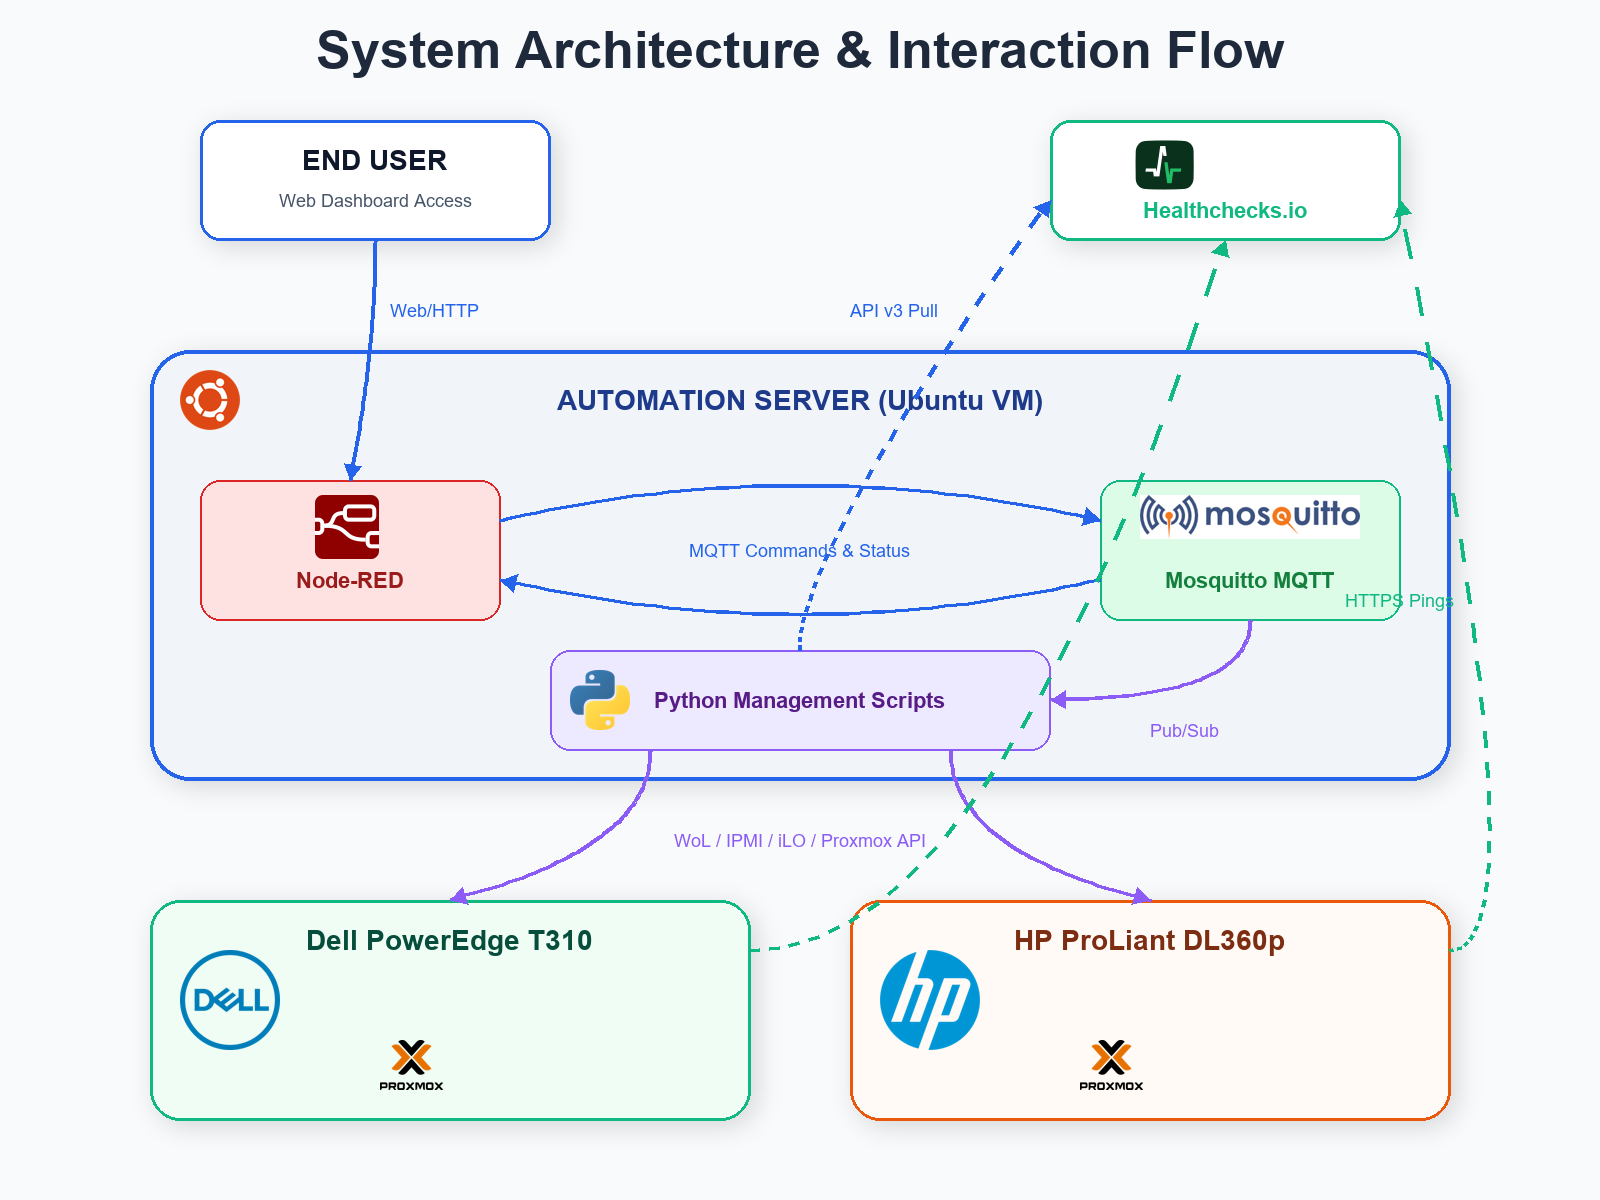
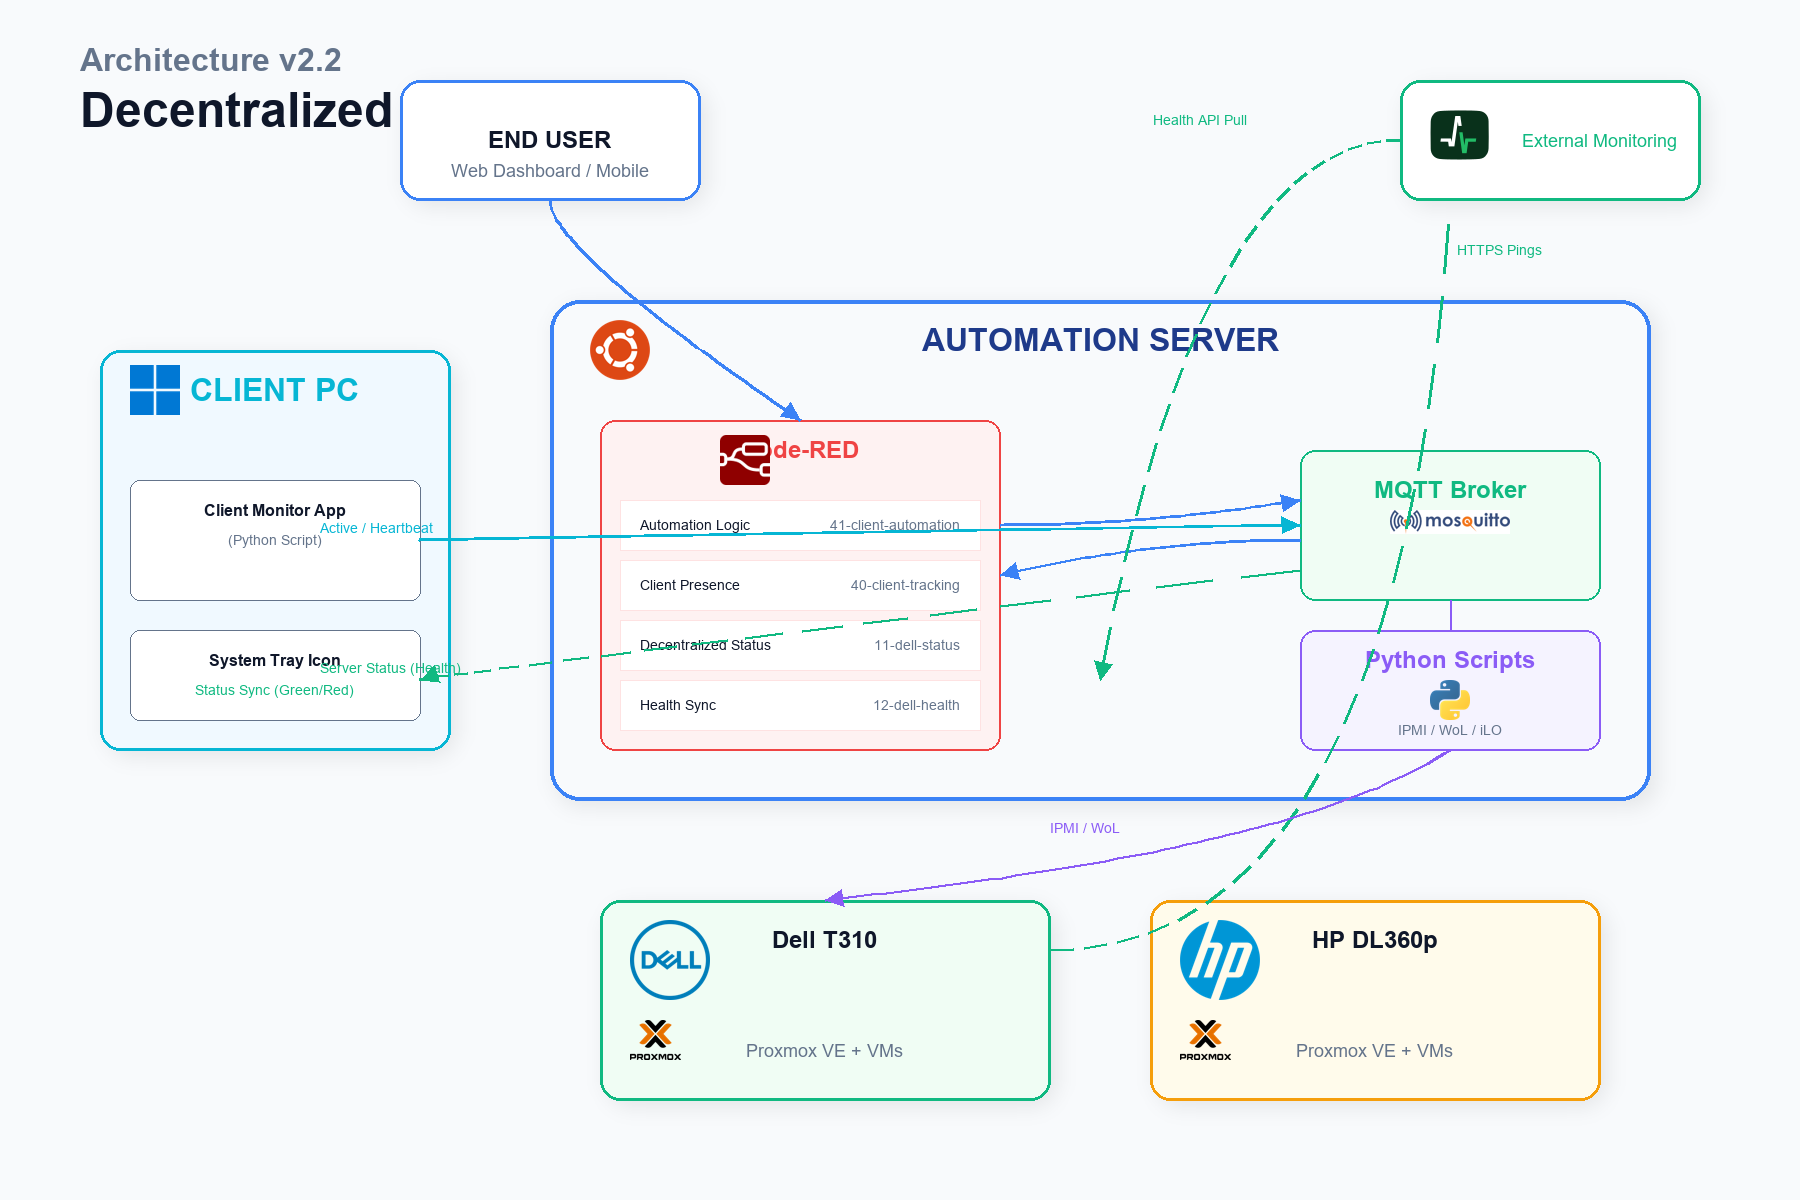
docs: update architecture diagram with v2.2 logic

diff --git a/gen_modern_architecture.py b/gen_modern_architecture.py
@@ -1,0 +1,268 @@
+import os
+import math
+import requests
+from io import BytesIO
+from PIL import Image, ImageDraw, ImageFont, ImageFilter
+
+# Configuration
+W, H = 1800, 1200  # Increased size for more components
+BG_COLOR = (248, 250, 252)  # Slate 50
+ACCENT_BLUE = (59, 130, 246)   # Blue 500
+ACCENT_GREEN = (16, 185, 129)  # Emerald 500
+ACCENT_RED = (239, 68, 68)     # Red 500
+ACCENT_PURPLE = (139, 92, 246) # Violet 500
+ACCENT_ORANGE = (245, 158, 11) # Amber 500
+ACCENT_CYAN = (6, 182, 212)    # Cyan 500
+TEXT_DARK = (15, 23, 42)       # Slate 900
+TEXT_MUTED = (100, 116, 139)   # Slate 500
+
+# Logo URLs
+LOGOS = {
+    'dell': 'https://upload.wikimedia.org/wikipedia/commons/thumb/1/18/Dell_logo_2016.svg/200px-Dell_logo_2016.svg.png',
+    'hp': 'https://upload.wikimedia.org/wikipedia/commons/thumb/a/ad/HP_logo_2012.svg/200px-HP_logo_2012.svg.png',
+    'nodered': 'https://nodered.org/favicon.ico',
+    'python': 'https://upload.wikimedia.org/wikipedia/commons/thumb/c/c3/Python-logo-notext.svg/200px-Python-logo-notext.svg.png',
+    'mosquitto': 'https://mosquitto.org/images/mosquitto-text-side.png',
+    'healthchecks': 'https://healthchecks.io/static/img/logo.png',
+    'proxmox': 'https://www.proxmox.com/images/proxmox/proxmox-logo-color-stacked.png',
+    'ubuntu': 'https://upload.wikimedia.org/wikipedia/commons/thumb/a/ab/Logo-ubuntu_cof-orange-hex.svg/200px-Logo-ubuntu_cof-orange-hex.svg.png',
+    'windows': 'https://upload.wikimedia.org/wikipedia/commons/thumb/8/87/Windows_logo_-_2021.svg/200px-Windows_logo_-_2021.svg.png'
+}
+
+HEADERS = {"User-Agent": "Mozilla/5.0"}
+
+def download_image(url):
+    try:
+        r = requests.get(url, headers=HEADERS, timeout=10)
+        r.raise_for_status()
+        return Image.open(BytesIO(r.content)).convert("RGBA")
+    except:
+        return None
+
+def draw_shadow(draw, box, radius=25, offset=(6, 6), color=(0, 0, 0, 20)):
+    x1, y1, x2, y2 = box
+    shadow_img = Image.new('RGBA', (W, H), (0, 0, 0, 0))
+    shadow_draw = ImageDraw.Draw(shadow_img)
+    shadow_box = (x1 + offset[0], y1 + offset[1], x2 + offset[0], y2 + offset[1])
+    shadow_draw.rounded_rectangle(shadow_box, radius=radius, fill=color)
+    return shadow_img.filter(ImageFilter.GaussianBlur(10))
+
+def draw_bezier(draw, p0, p1, p2, color, width=3, dashed=False, head=True):
+    """Draws a quadratic bezier curve."""
+    points = []
+    steps = 60
+    for i in range(steps + 1):
+        t = i / float(steps)
+        x = (1-t)**2 * p0[0] + 2*(1-t)*t * p1[0] + t**2 * p2[0]
+        y = (1-t)**2 * p0[1] + 2*(1-t)*t * p1[1] + t**2 * p2[1]
+        points.append((x, y))
+    
+    if dashed:
+        for i in range(0, len(points)-1, 3):
+            if i+2 < len(points):
+                draw.line([points[i], points[i+2]], fill=color, width=width)
+    else:
+        draw.line(points, fill=color, width=width)
+    
+    if head:
+        # Draw arrow head at end
+        angle = math.atan2(points[-1][1] - points[-5][1], points[-1][0] - points[-5][0])
+        head_len = 20
+        head_angle = math.pi / 7
+        end = points[-1]
+        hp1 = (end[0] - head_len * math.cos(angle - head_angle), end[1] - head_len * math.sin(angle - head_angle))
+        hp2 = (end[0] - head_len * math.cos(angle + head_angle), end[1] - head_len * math.sin(angle + head_angle))
+        draw.polygon([end, hp1, hp2], fill=color)
+
+def create_diagram():
+    img = Image.new('RGB', (W, H), BG_COLOR)
+    draw = ImageDraw.Draw(img)
+    
+    try:
+        font_title = ImageFont.truetype("arialbd.ttf", 48)
+        font_h1 = ImageFont.truetype("arialbd.ttf", 32)
+        font_h2 = ImageFont.truetype("arialbd.ttf", 24)
+        font_reg = ImageFont.truetype("arial.ttf", 18)
+        font_small = ImageFont.truetype("arial.ttf", 14)
+        font_bold = ImageFont.truetype("arialbd.ttf", 16)
+    except:
+        font_title = font_h1 = font_h2 = font_reg = font_small = font_bold = ImageFont.load_default()
+
+    # 1. Download Logos
+    print("Downloading logos...")
+    logo_imgs = {name: download_image(url) for name, url in LOGOS.items()}
+
+    # 2. Define Layout Blocks
+    # Top Row: External Services & User
+    hc_box = (W - 400, 80, W - 100, 200)
+    user_box = (400, 80, 700, 200)
+
+    # Middle Row: Client PC (Left) -- Automation Server (Center/Right)
+    client_box = (100, 350, 450, 750)
+    auto_box = (550, 300, 1650, 800)
+
+    # Bottom Row: Servers
+    dell_box = (600, 900, 1050, 1100)
+    hp_box = (1150, 900, 1600, 1100)
+
+    # 3. Draw Shadows
+    shadow_layer = Image.new('RGBA', (W, H), (0, 0, 0, 0))
+    for box in [user_box, hc_box, client_box, auto_box, dell_box, hp_box]:
+        shadow_layer = Image.alpha_composite(shadow_layer, draw_shadow(draw, box))
+    img.paste(shadow_layer, (0, 0), shadow_layer)
+
+    # 4. Draw Components
+    
+    # Title
+    draw.text((80, 60), "Architecture v2.2", fill=TEXT_MUTED, font=font_h1, anchor="lm")
+    draw.text((80, 110), "Decentralized Automation", fill=TEXT_DARK, font=font_title, anchor="lm")
+
+    # User
+    draw.rounded_rectangle(user_box, radius=20, fill="white", outline=ACCENT_BLUE, width=3)
+    draw.text(((user_box[0]+user_box[2])//2, 140), "END USER", fill=TEXT_DARK, font=font_h2, anchor="mm")
+    draw.text(((user_box[0]+user_box[2])//2, 170), "Web Dashboard / Mobile", fill=TEXT_MUTED, font=font_reg, anchor="mm")
+
+    # Healthchecks.io
+    draw.rounded_rectangle(hc_box, radius=20, fill="white", outline=ACCENT_GREEN, width=3)
+    if logo_imgs['healthchecks']:
+        logo = logo_imgs['healthchecks'].copy()
+        logo.thumbnail((180, 70))
+        img.paste(logo, (hc_box[0] + 30, hc_box[1] + 30), logo)
+    draw.text((hc_box[0] + 200, hc_box[1] + 60), "External Monitoring", fill=ACCENT_GREEN, font=font_reg, anchor="mm")
+
+    # Client PC
+    draw.rounded_rectangle(client_box, radius=20, fill="#f0f9ff", outline=ACCENT_CYAN, width=3)
+    draw.text(((client_box[0]+client_box[2])//2, 390), "CLIENT PC", fill=ACCENT_CYAN, font=font_h1, anchor="mm")
+    if logo_imgs['windows']:
+        logo = logo_imgs['windows'].copy()
+        logo.thumbnail((50, 50))
+        img.paste(logo, (client_box[0] + 30, 365), logo)
+    
+    # Client Inner: App
+    app_box = (client_box[0]+30, 480, client_box[2]-30, 600)
+    draw.rounded_rectangle(app_box, radius=10, fill="white", outline=TEXT_MUTED, width=1)
+    draw.text(((app_box[0]+app_box[2])//2, 510), "Client Monitor App", fill=TEXT_DARK, font=font_bold, anchor="mm")
+    draw.text(((app_box[0]+app_box[2])//2, 540), "(Python Script)", fill=TEXT_MUTED, font=font_small, anchor="mm")
+    
+    # Client Inner: Tray
+    tray_box = (client_box[0]+30, 630, client_box[2]-30, 720)
+    draw.rounded_rectangle(tray_box, radius=10, fill="white", outline=TEXT_MUTED, width=1)
+    draw.text(((tray_box[0]+tray_box[2])//2, 660), "System Tray Icon", fill=TEXT_DARK, font=font_bold, anchor="mm")
+    draw.text(((tray_box[0]+tray_box[2])//2, 690), "Status Sync (Green/Red)", fill=ACCENT_GREEN, font=font_small, anchor="mm")
+
+    # Automation Server
+    draw.rounded_rectangle(auto_box, radius=30, fill="#f8fafc", outline=ACCENT_BLUE, width=4)
+    draw.text(((auto_box[0]+auto_box[2])//2, 340), "AUTOMATION SERVER", fill=(30, 58, 138), font=font_h1, anchor="mm")
+    if logo_imgs['ubuntu']:
+        logo = logo_imgs['ubuntu'].copy()
+        logo.thumbnail((60, 60))
+        img.paste(logo, (auto_box[0] + 40, 320), logo)
+
+    # Automation Inner: Node-RED
+    nr_box = (auto_box[0]+50, 420, auto_box[0]+450, 750)
+    draw.rounded_rectangle(nr_box, radius=15, fill="#fef2f2", outline=ACCENT_RED, width=2)
+    draw.text(((nr_box[0]+nr_box[2])//2, 450), "Node-RED", fill=ACCENT_RED, font=font_h2, anchor="mm")
+    if logo_imgs['nodered']:
+        logo = logo_imgs['nodered'].copy()
+        logo.thumbnail((50, 50))
+        img.paste(logo, (nr_box[0]+120, 435), logo)
+
+    # Node-RED Modules
+    mods = [
+        ("41-client-automation", "Automation Logic"),
+        ("40-client-tracking", "Client Presence"),
+        ("11-dell-status", "Decentralized Status"),
+        ("12-dell-health", "Health Sync")
+    ]
+    for i, (code, title) in enumerate(mods):
+        y = 500 + i*60
+        draw.rectangle((nr_box[0]+20, y, nr_box[2]-20, y+50), fill="white", outline="#fee2e2", width=1)
+        draw.text((nr_box[0]+40, y+25), title, fill=TEXT_DARK, font=font_small, anchor="lm")
+        draw.text((nr_box[2]-40, y+25), code, fill=TEXT_MUTED, font=font_small, anchor="rm")
+
+    # Automation Inner: MQTT
+    mq_box = (auto_box[2]-350, 450, auto_box[2]-50, 600)
+    draw.rounded_rectangle(mq_box, radius=15, fill="#f0fdf4", outline=ACCENT_GREEN, width=2)
+    draw.text(((mq_box[0]+mq_box[2])//2, 490), "MQTT Broker", fill=ACCENT_GREEN, font=font_h2, anchor="mm")
+    if logo_imgs['mosquitto']:
+        logo = logo_imgs['mosquitto'].copy()
+        logo.thumbnail((120, 120))
+        img.paste(logo, ((mq_box[0]+mq_box[2])//2 - 60, 510), logo)
+
+    # Automation Inner: Scripts
+    py_box = (auto_box[2]-350, 630, auto_box[2]-50, 750)
+    draw.rounded_rectangle(py_box, radius=15, fill="#f5f3ff", outline=ACCENT_PURPLE, width=2)
+    draw.text(((py_box[0]+py_box[2])//2, 660), "Python Scripts", fill=ACCENT_PURPLE, font=font_h2, anchor="mm") # Corrected X coordinate
+    if logo_imgs['python']:
+        logo = logo_imgs['python'].copy()
+        logo.thumbnail((40, 40))
+        img.paste(logo, ((py_box[0]+py_box[2])//2 - 20, 680), logo)
+    draw.text(((py_box[0]+py_box[2])//2, 730), "IPMI / WoL / iLO", fill=TEXT_MUTED, font=font_small, anchor="mm")
+
+    # Managed Servers
+    # Dell
+    draw.rounded_rectangle(dell_box, radius=20, fill="#f0fdf4", outline=ACCENT_GREEN, width=3)
+    draw.text(((dell_box[0]+dell_box[2])//2, 940), "Dell T310", fill=TEXT_DARK, font=font_h2, anchor="mm")
+    if logo_imgs['dell']:
+        logo = logo_imgs['dell'].copy()
+        logo.thumbnail((80, 80))
+        img.paste(logo, (dell_box[0]+30, 920), logo)
+    if logo_imgs['proxmox']:
+        logo = logo_imgs['proxmox'].copy()
+        logo.thumbnail((100, 40))
+        img.paste(logo, (dell_box[0]+30, 1020), logo)
+    draw.text(((dell_box[0]+dell_box[2])//2, 1050), "Proxmox VE + VMs", fill=TEXT_MUTED, font=font_reg, anchor="mm")
+
+    # HP
+    draw.rounded_rectangle(hp_box, radius=20, fill="#fffbeb", outline=ACCENT_ORANGE, width=3)
+    draw.text(((hp_box[0]+hp_box[2])//2, 940), "HP DL360p", fill=TEXT_DARK, font=font_h2, anchor="mm")
+    if logo_imgs['hp']:
+        logo = logo_imgs['hp'].copy()
+        logo.thumbnail((80, 80))
+        img.paste(logo, (hp_box[0]+30, 920), logo)
+    if logo_imgs['proxmox']:
+        logo = logo_imgs['proxmox'].copy()
+        logo.thumbnail((100, 40))
+        img.paste(logo, (hp_box[0]+30, 1020), logo)
+    draw.text(((hp_box[0]+hp_box[2])//2, 1050), "Proxmox VE + VMs", fill=TEXT_MUTED, font=font_reg, anchor="mm")
+
+
+    # 5. Connectors (Logic Flow)
+    
+    # Client -> MQTT (Presence)
+    draw_bezier(draw, (app_box[2], 540), (400, 540), (mq_box[0], 525), color=ACCENT_CYAN, head=True)
+    draw.text((320, 520), "Active / Heartbeat", fill=ACCENT_CYAN, font=font_small)
+
+    # MQTT -> Client (Status)
+    draw_bezier(draw, (mq_box[0], 570), (400, 680), (tray_box[2], 680), color=ACCENT_GREEN, dashed=True, head=True)
+    draw.text((320, 660), "Server Status (Health)", fill=ACCENT_GREEN, font=font_small)
+
+    # Node-RED <-> MQTT (Internal)
+    draw_bezier(draw, (nr_box[2], 525), ((nr_box[2]+mq_box[0])//2, 525), (mq_box[0], 500), color=ACCENT_BLUE, head=True)
+    draw_bezier(draw, (mq_box[0], 540), ((nr_box[2]+mq_box[0])//2, 540), (nr_box[2], 575), color=ACCENT_BLUE, head=True)
+
+    # User -> Node-RED (HTTP)
+    draw_bezier(draw, ((user_box[0]+user_box[2])//2, 200), (550, 250), (nr_box[0]+200, 420), color=ACCENT_BLUE, head=True)
+
+    # Server -> HealthChecks (External)
+    draw_bezier(draw, (dell_box[2], 950), (1400, 950), (hc_box[0]+50, 200), color=ACCENT_GREEN, dashed=True, head=False)
+    draw.text((1500, 250), "HTTPS Pings", fill=ACCENT_GREEN, font=font_small, anchor="mm")
+
+    # HealthChecks -> MQTT (Webhook/API)
+    # Implicitly visualized by showing health sync in Node-RED
+    # Let's draw HC -> Node-RED directly to show the decentralization concept conceptually
+    draw_bezier(draw, (hc_box[0], 140), (nr_box[2]+200, 140), (nr_box[2]+100, 680), color=ACCENT_GREEN, dashed=True, head=True)
+    draw.text((1200, 120), "Health API Pull", fill=ACCENT_GREEN, font=font_small, anchor="mm")
+
+    # MQTT -> Scripts
+    draw.line(((mq_box[0]+mq_box[2])//2, 600, (py_box[0]+py_box[2])//2, 630), fill=ACCENT_PURPLE, width=2)
+
+    # Scripts -> Servers (Control)
+    draw_bezier(draw, ((py_box[0]+py_box[2])//2, 750), (1300, 850), ((dell_box[0]+dell_box[2])//2, 900), color=ACCENT_PURPLE, head=True)
+    draw.text((1050, 820), "IPMI / WoL", fill=ACCENT_PURPLE, font=font_small)
+
+    img.save("docs/architecture_diagram.png", "PNG", optimize=True)
+    print("Successfully created docs/architecture_diagram.png")
+
+if __name__ == "__main__":
+    create_diagram()
